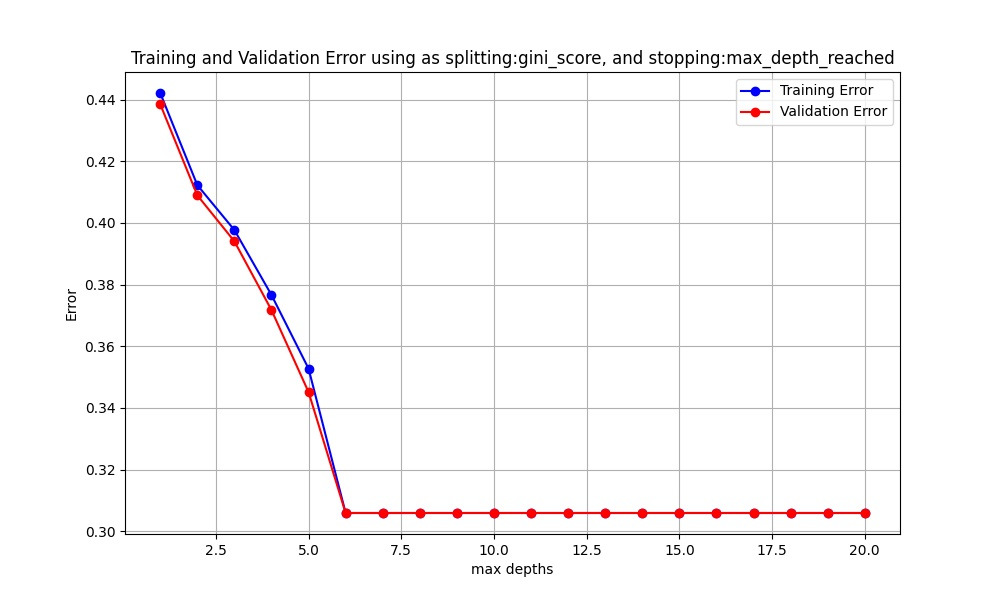
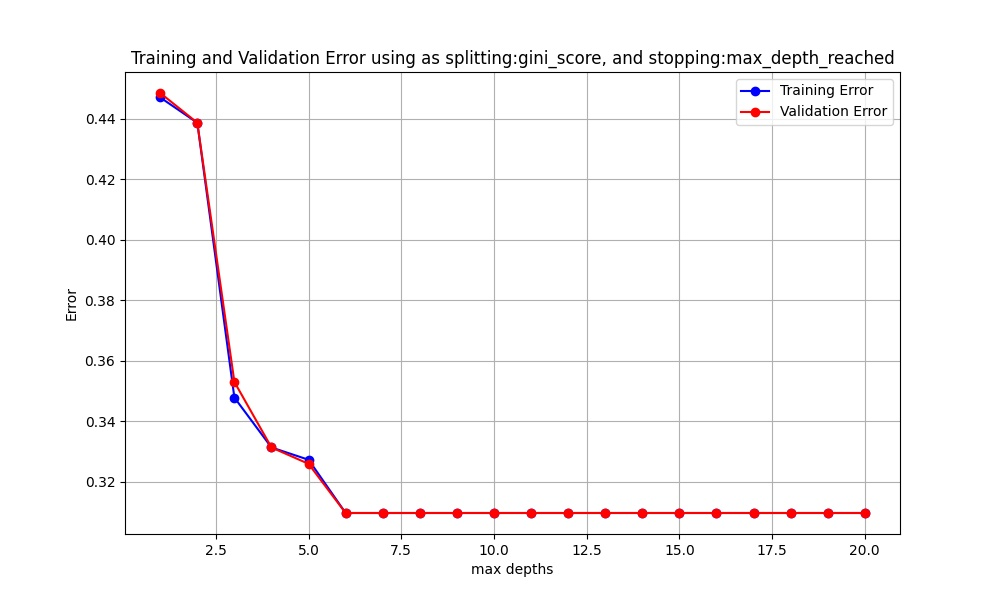
error correction

diff --git a/Tree_predictors_for_binary_classification/TreeConstruction/train.py b/Tree_predictors_for_binary_classification/TreeConstruction/train.py
@@ -1,0 +1,78 @@
+import pandas as pd
+import matplotlib.pyplot as plt
+from numpy import NaN
+from sklearn.model_selection import train_test_split
+from Tree_predictors_for_binary_classification.HyperparameterTuning import hyperParameterTuning, fix_hyperParameterTuning
+from Tree_predictors_for_binary_classification.criterion.SplittingFunction import gini_score, entropy_score, information_gain, mse_score
+from Tree_predictors_for_binary_classification.criterion.StoppingFunction import max_depth_reached, min_samples_per_leaf, min_impurity_threshold
+from Tree_predictors_for_binary_classification.TreeConstruction.TreePredictor import TreePredictor
+import numpy as np
+from sklearn.model_selection import KFold
+
+if __name__ == '__main__':
+    # hyper_parameter
+    splitting_criteria = gini_score
+    stopping_criteria = max_depth_reached
+    maxDepth = 6
+    column_names = [
+        "class", "cap-shape", "cap-surface", "cap-color", "bruises", "odor",
+        "gill-attachment", "gill-spacing", "gill-size", "gill-color",
+        "stalk-shape", "stalk-root", "stalk-surface-above-ring", "stalk-surface-below-ring",
+        "stalk-color-above-ring", "stalk-color-below-ring", "veil-type", "veil-color",
+        "ring-number", "ring-type", "spore-print-color", "population", "habitat"
+    ]
+
+    data = pd.read_csv('../Dataset/mushroom/mushroom.data',
+                       header=None, names=column_names)
+    data.replace("?", NaN, inplace=True)
+
+    # Preview the dataset
+    print(data.head())
+    print(data.info())
+
+    target_column='class'
+    X = data.drop(columns=target_column).values
+    y = (data[target_column] == 'p').astype(int).values
+    X_train_val, X_test, y_train_val, y_test = train_test_split(X, y, test_size=0.2, random_state=42)
+    X_train, X_val, y_train, y_val = train_test_split(X_train_val, y_train_val, test_size=0.25, random_state=42)
+
+    kf = KFold(n_splits=5, shuffle=True, random_state=42)
+
+    fold_val_errors = []
+    fold_train_errors = []
+    fold = 1
+    for train_index, val_index in kf.split(X):
+        X_train, X_val = X[train_index], X[val_index]
+        y_train, y_val = y[train_index], y[val_index]
+        predictor = TreePredictor(splitting_criterion=splitting_criteria,
+                                  stopping_criterion=stopping_criteria,
+                                  stopping_param=maxDepth)
+
+        predictor.fit(X_train, y_train)
+        train_error = predictor.training_error(X_train, y_train)
+        val_error = predictor.training_error(X_val, y_val)
+        fold_train_errors.append(train_error)
+        fold_val_errors.append(val_error)
+        print(f"Fold {fold}: Train Error = {train_error:.2f}, Validation Error = {val_error:.2f}")
+        fold = fold + 1
+
+    avg_train_error = np.mean(fold_train_errors)
+    avg_val_error = np.mean(fold_val_errors)
+
+    print(f"Train Error = {avg_train_error:.2f}, Validation error = {avg_val_error:.2f}")
+    plt.figure(figsize=(10, 6))
+    plt.plot(list(range(1, fold)), fold_train_errors, label='Training Error', color='blue', marker='o', linestyle='-')
+    plt.plot(list(range(1, fold)), fold_val_errors, label='Validation Error', color='red', marker='o', linestyle='-')
+    plt.xlabel('Fold')
+    plt.ylabel('Error')
+    plt.title(f'Training and Validation Error')
+    plt.legend()
+    plt.grid(True)
+    plt.savefig('../TreeConstruction/train_graphic.jpg')
+    plt.show()
+    test_predictor = TreePredictor(splitting_criterion=splitting_criteria,
+                                   stopping_criterion=stopping_criteria,
+                                   stopping_param=maxDepth)
+    test_predictor.fit(X_train_val, y_train_val)
+    test_accuracy = test_predictor.evaluate(X_test, y_test)
+    print(f"Test Accuracy: {test_accuracy:.2f}")

diff --git a/Tree_predictors_for_binary_classification/main.py b/Tree_predictors_for_binary_classification/main.py
@@ -1,10 +1,6 @@
 import pandas as pd
 import matplotlib.pyplot as plt
-import numpy as np
 from sklearn.model_selection import train_test_split
-from sklearn.model_selection import KFold
-from sklearn.metrics import accuracy_score
-
 from Tree_predictors_for_binary_classification.HyperparameterTuning import hyperParameterTuning, fix_hyperParameterTuning
 from Tree_predictors_for_binary_classification.criterion.SplittingFunction import gini_score, entropy_score, information_gain, mse_score
 from Tree_predictors_for_binary_classification.criterion.StoppingFunction import max_depth_reached, min_samples_per_leaf, min_impurity_threshold

diff --git a/Tree_predictors_for_binary_classification/HyperparameterTuning.py b/Tree_predictors_for_binary_classification/HyperparameterTuning.py
@@ -13,11 +13,12 @@ def hyperParameterTuning(X, y, splitting_criteria, stopping_criteria, maxDepths,
     best_split_criteria = None
     best_stop_criteria = None
     for split_criterion in splitting_criteria:
-        val_errors = []
-        train_errors = []
         for stopping_criterion in stopping_criteria:
+            val_errors = []
+            train_errors = []
             params = maxDepths
             params_name="max depths"
+
             if stopping_criterion.__name__ == "min_samples_per_leaf":
                 params=min_samples
                 params_name = "min samples"

diff --git a/Tree_predictors_for_binary_classification/TreeConstruction/TreePredictor.py b/Tree_predictors_for_binary_classification/TreeConstruction/TreePredictor.py
@@ -6,7 +6,7 @@ from Tree_predictors_for_binary_classification.criterion.SplittingFunction impor
 
 class TreePredictor:
     def __init__(self, splitting_criterion, stopping_criterion, stopping_param,
-                 maxDepth=980, minSamplesParLeaf=2, minImpurityThreshold=0.1):
+                 maxDepth=900, minSamplesParLeaf=2, minImpurityThreshold=0.1):
         """
         Initializes the TreePredictor.
 
